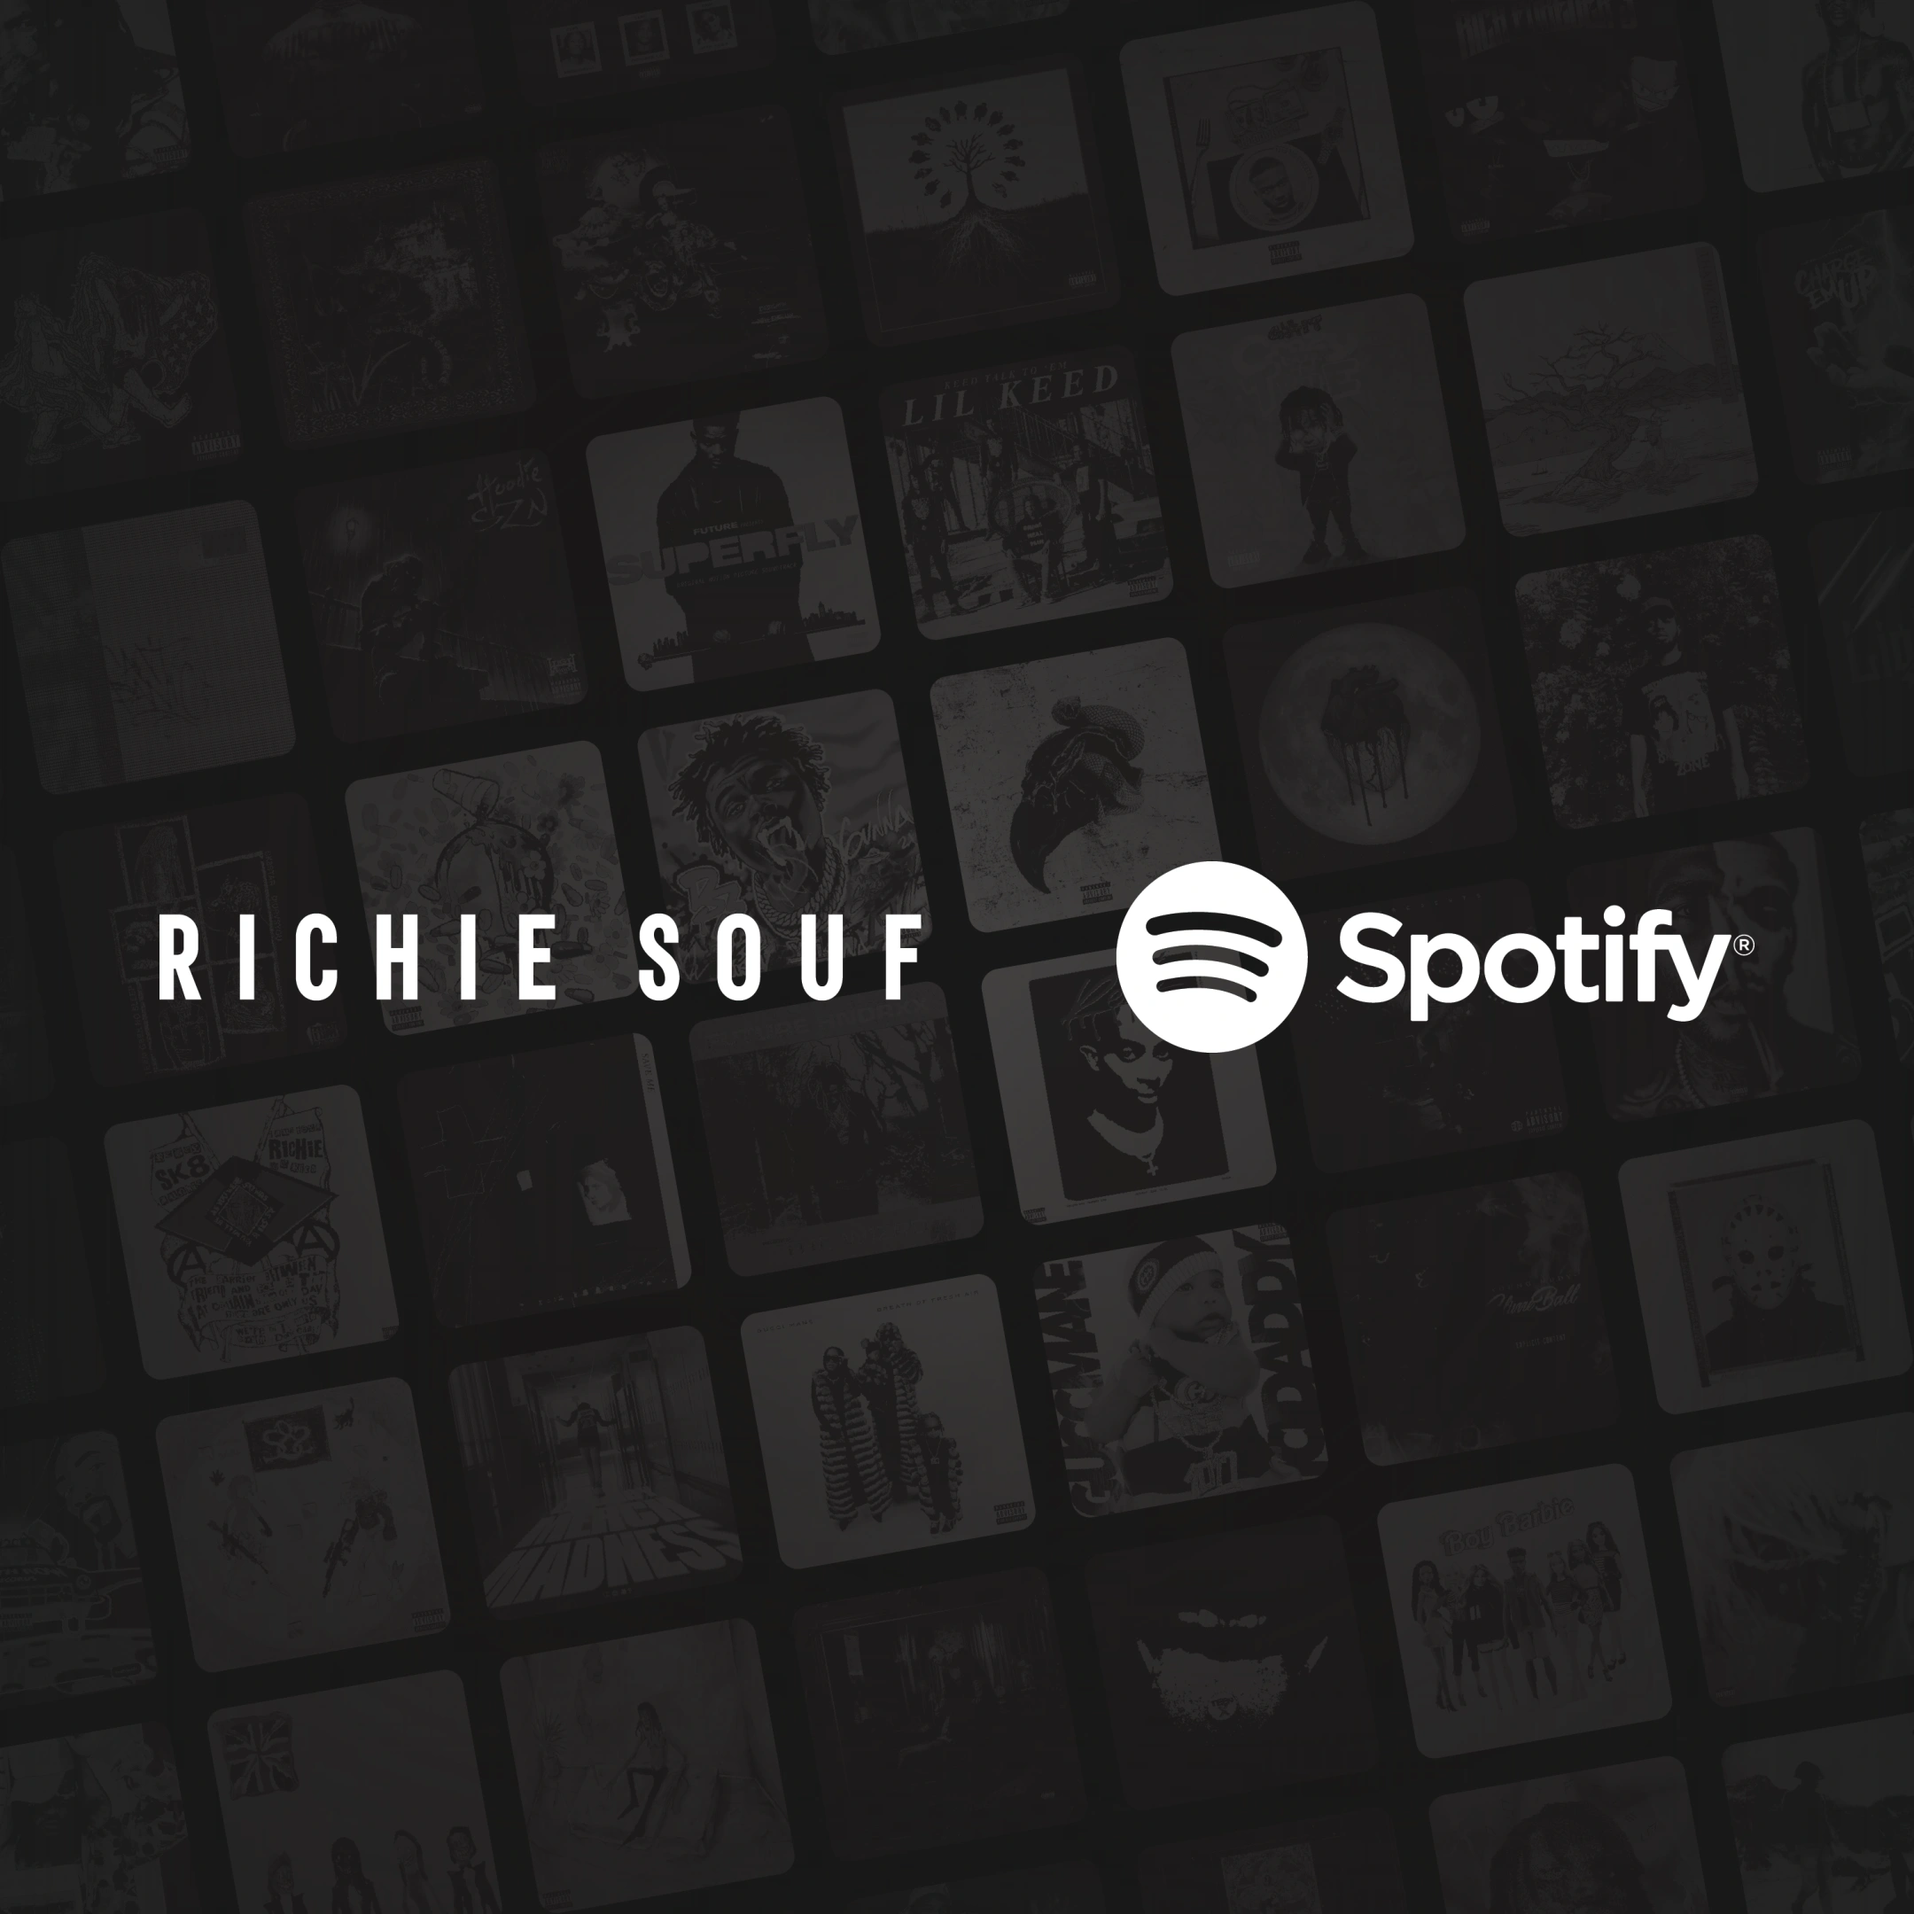
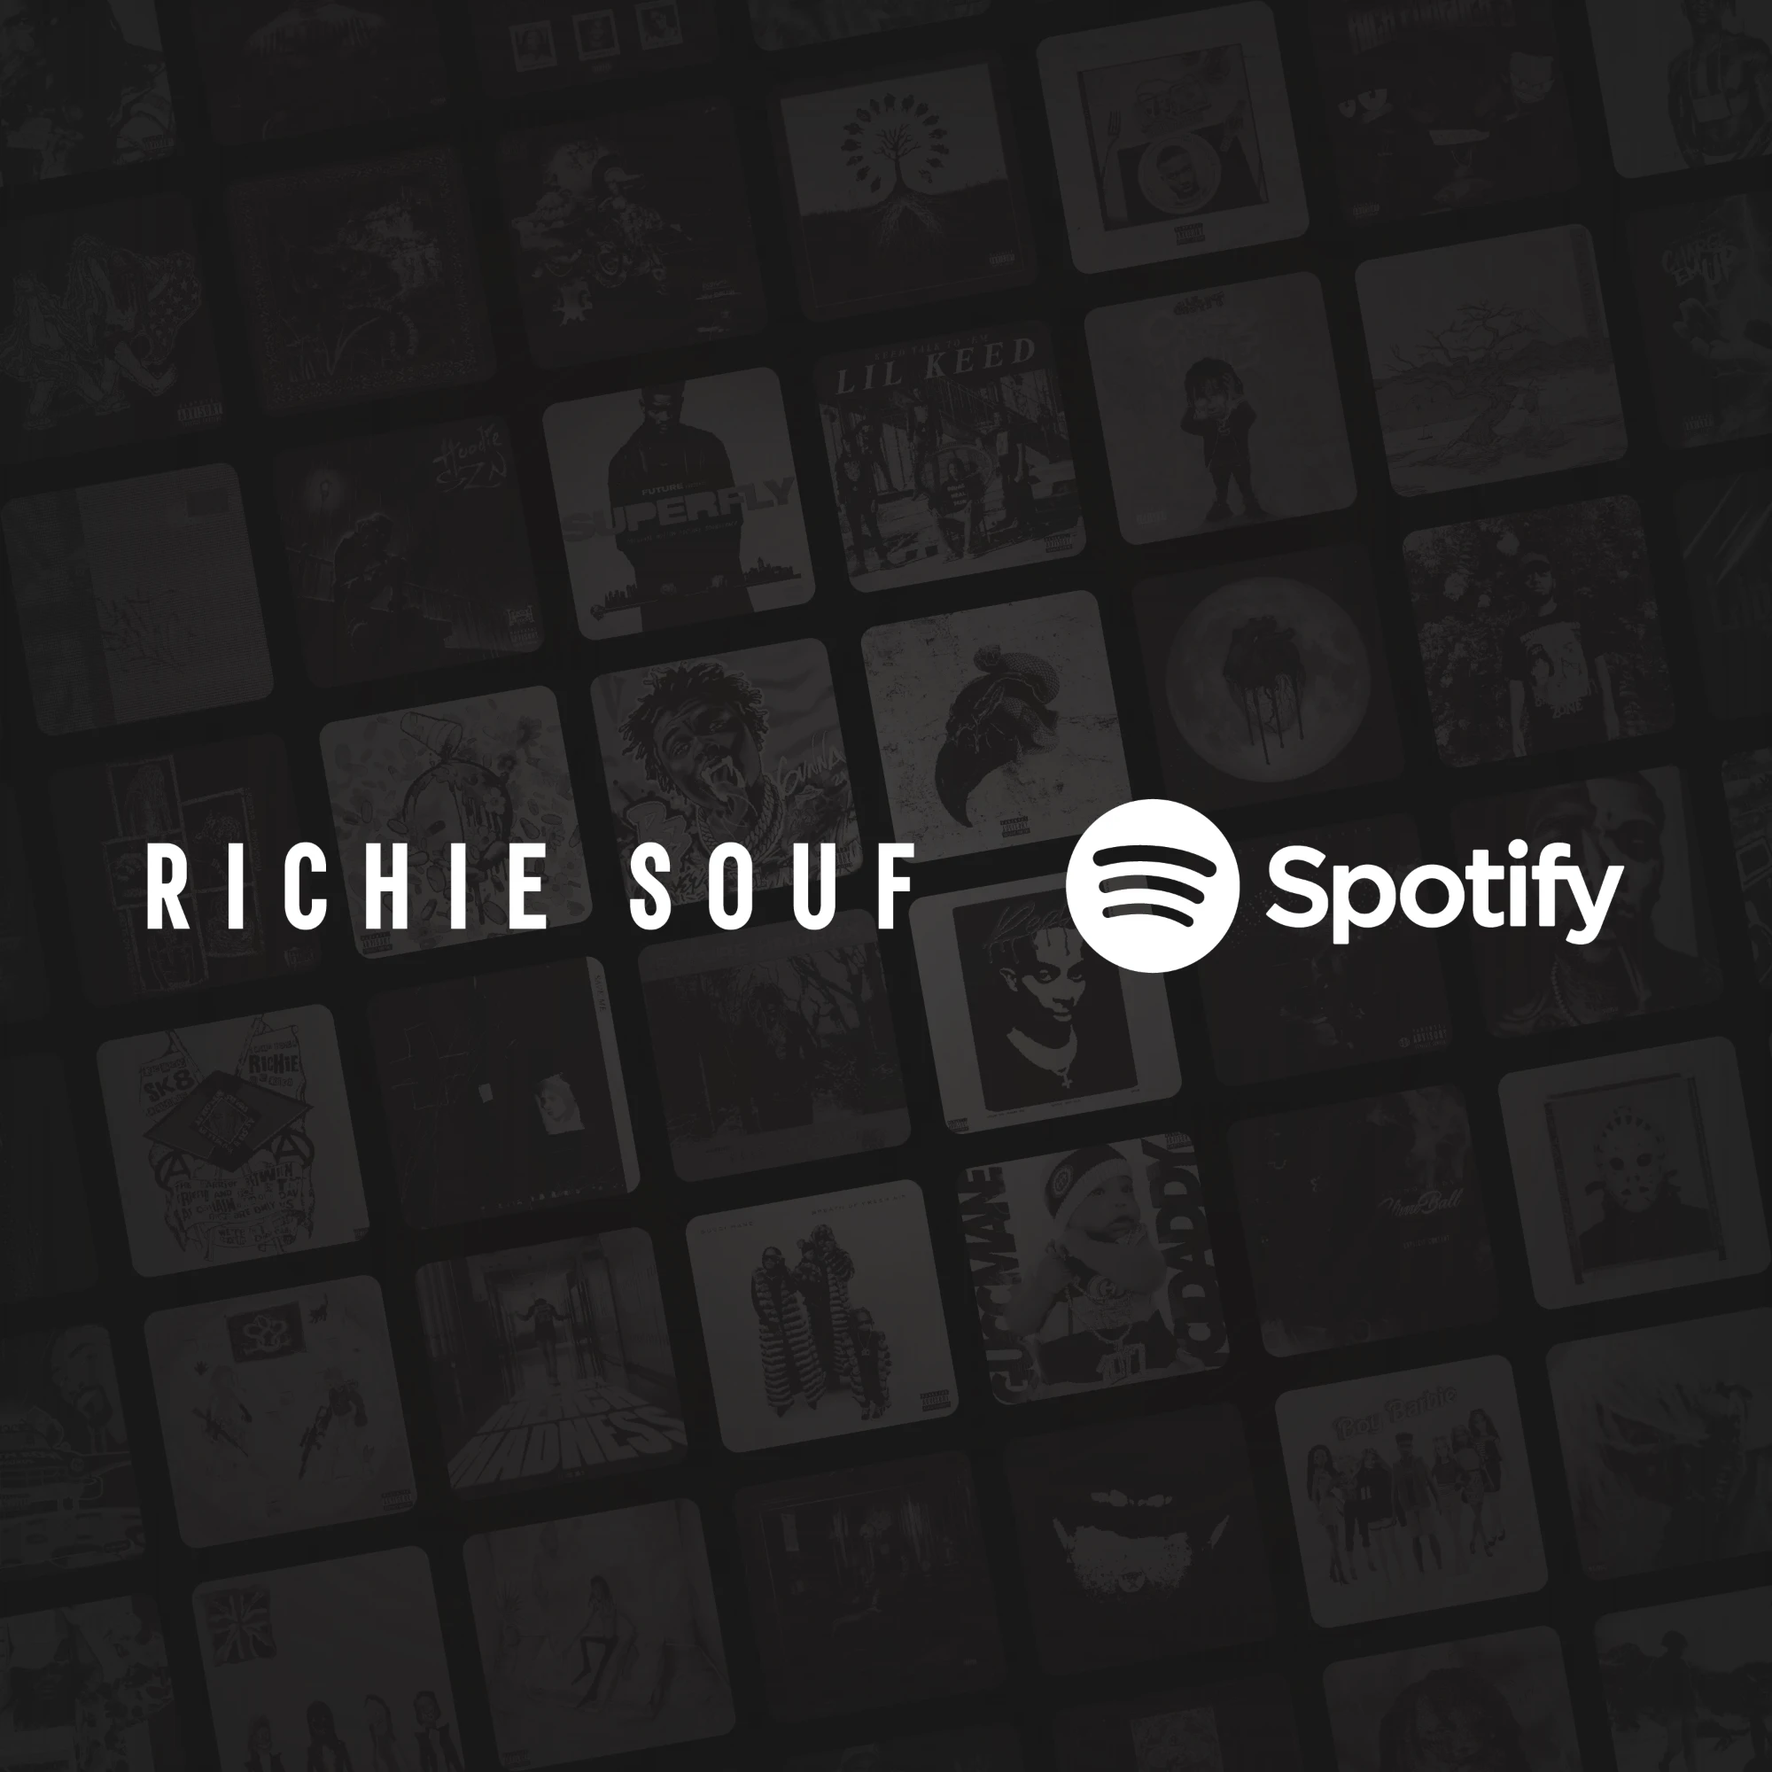
Replace the Richie Souf playlist covers

Changed region(s): [[0.558, 0.434, 0.93, 0.558], [0.093, 0.465, 0.527, 0.527]]

diff --git a/hamed/main.js b/hamed/main.js
@@ -32,8 +32,8 @@
   ];
 
   const design = [
-    'design/richie-souf/produced-by-cover-spotify.webp',
-    'design/richie-souf/produced-by-cover-apple-music.webp',
+    'design/richie-souf/produced-by-cover-spotify.webp?v=2',
+    'design/richie-souf/produced-by-cover-apple-music.webp?v=2',
     'design/roxie/roxie-motherfucker-cover.webp',
     'design/sneak/vanilla-sky-tracklist.webp',
     'design/2-20-03/profile-picture-2.webp',

diff --git a/hamed/index.html b/hamed/index.html
@@ -16,7 +16,7 @@
 <link rel="dns-prefetch" href="https://i1.sndcdn.com">
 <link rel="dns-prefetch" href="https://va.sndcdn.com">
 <link rel="preconnect" href="https://wave.sndcdn.com">
-<script src="main.js?v=201" defer></script>
+<script src="main.js?v=202" defer></script>
 <noscript><style>body{opacity:1;animation:none}#site-lock{display:none}</style></noscript>
 </head>
 
